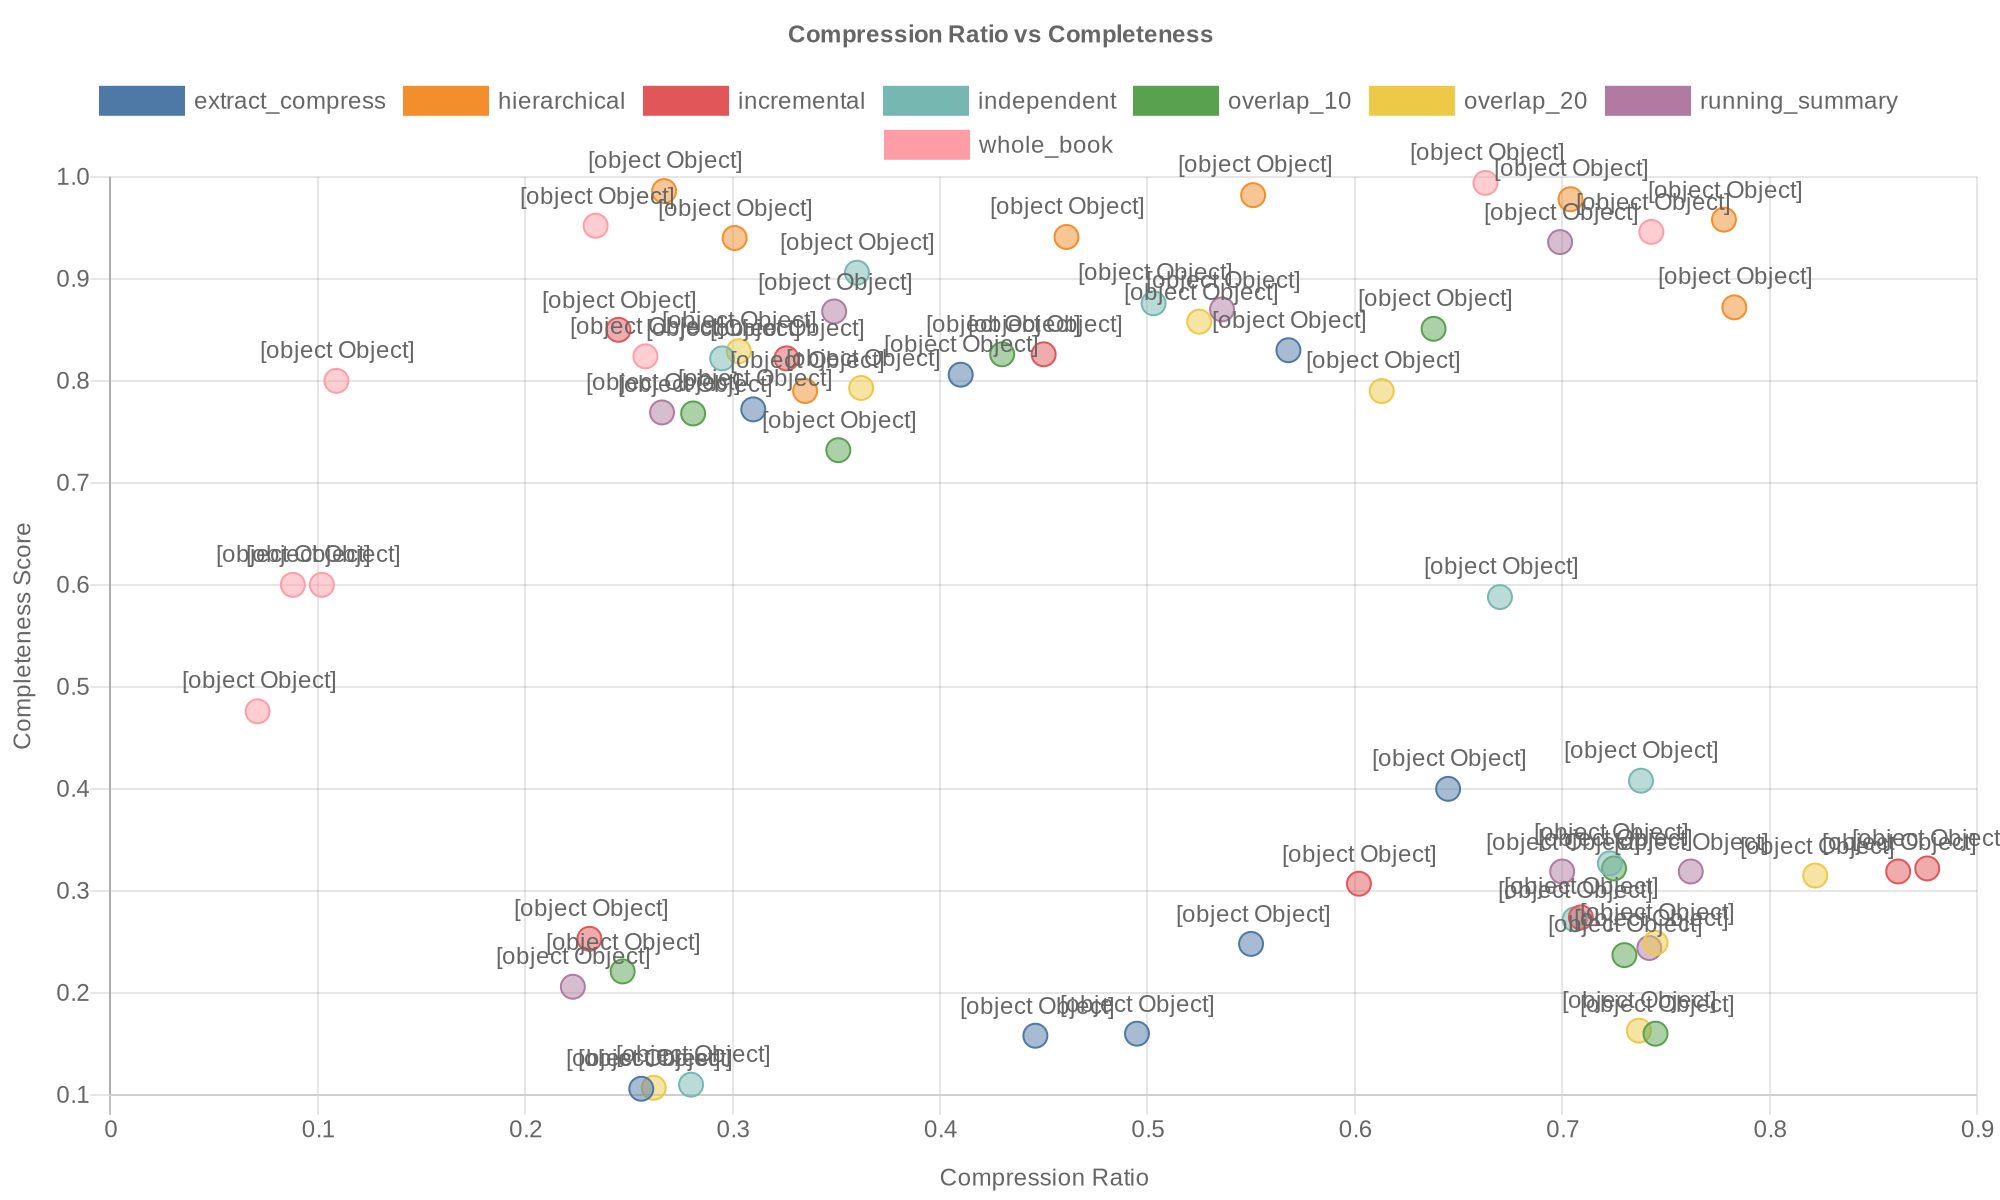
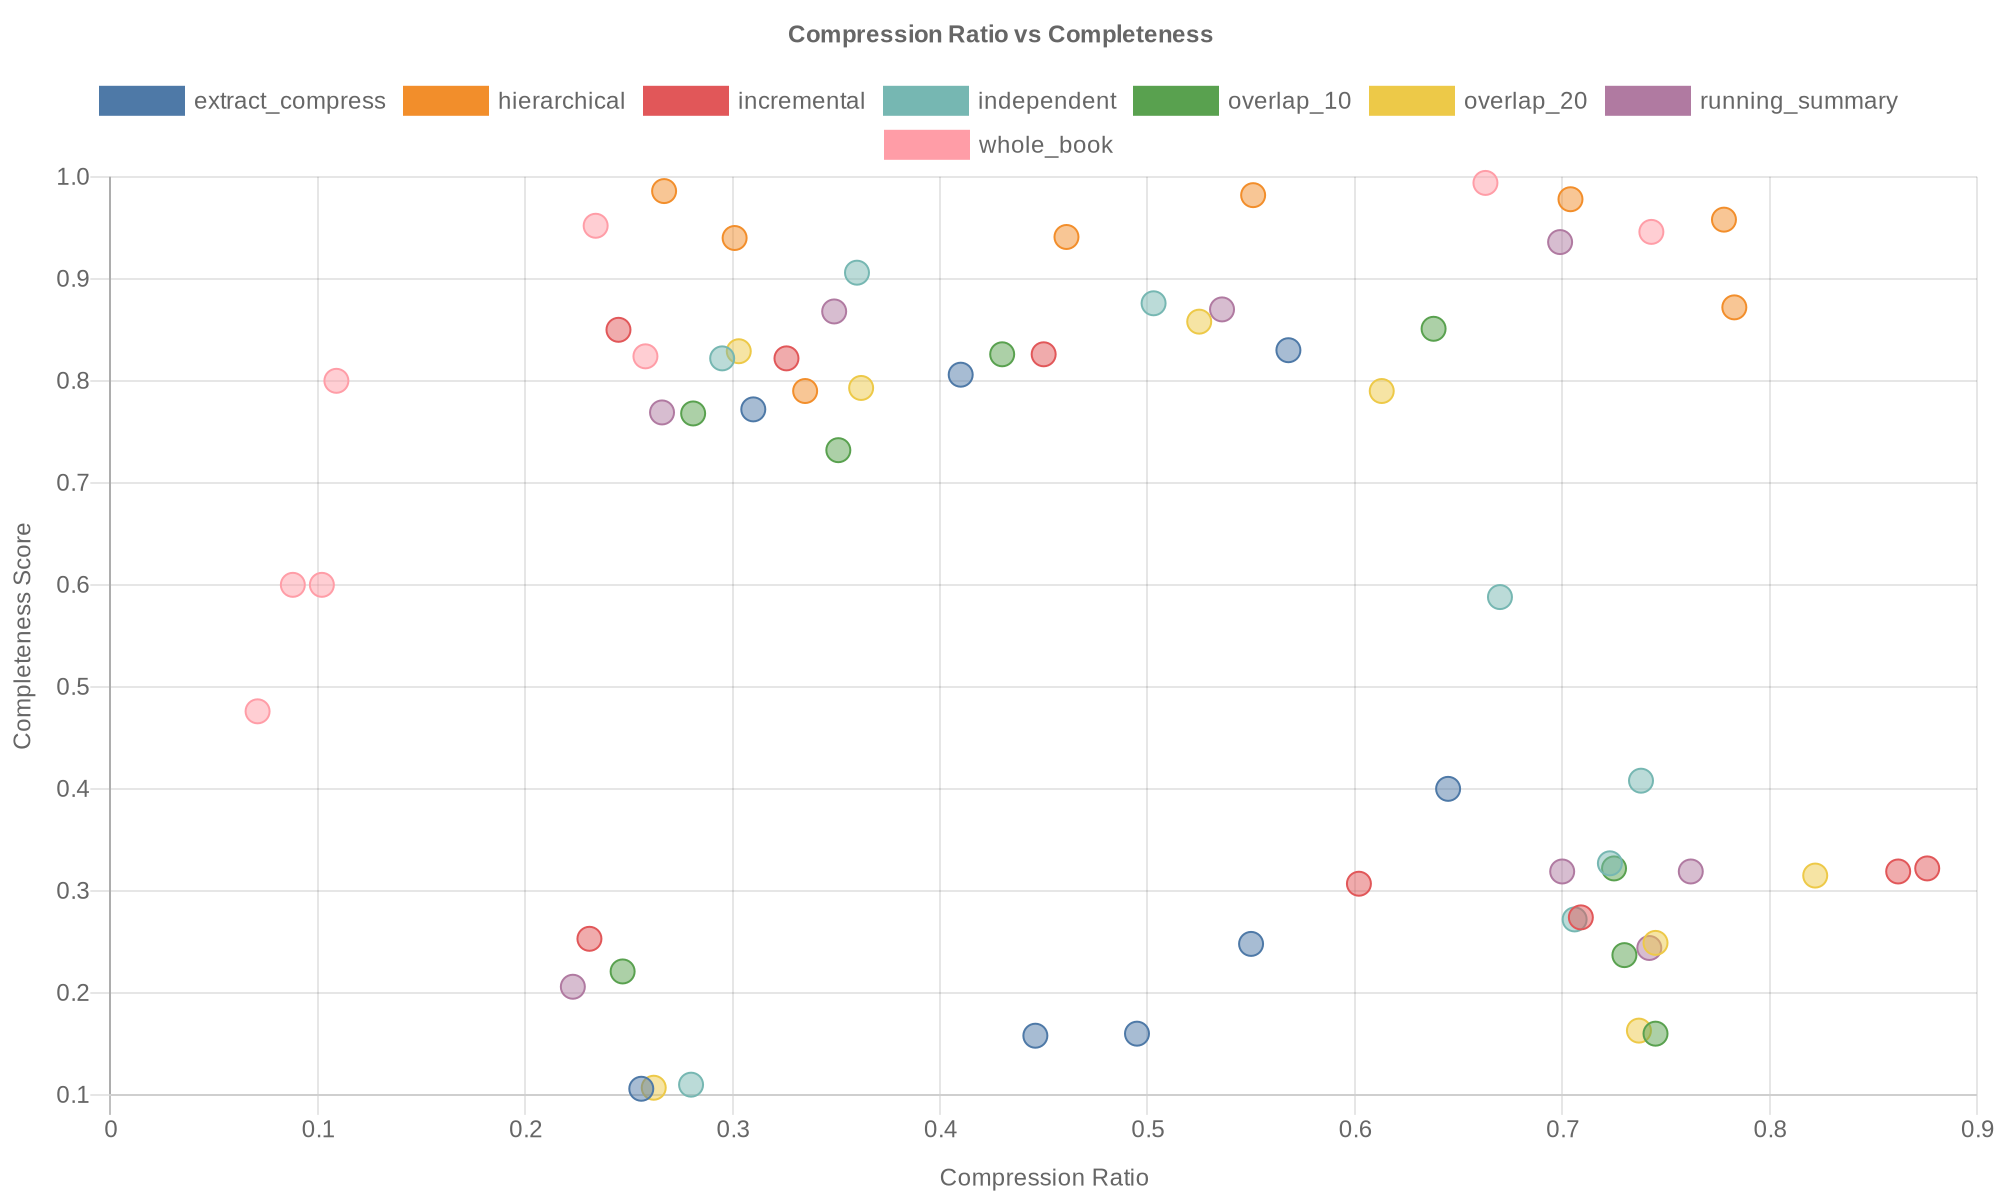
Regenerate charts

diff --git a/research/charts.py b/research/charts.py
@@ -181,21 +181,9 @@ def generate_compression_scatter(data: list[dict], output_path: Path) -> None:
                 "xAxes": [{"scaleLabel": {"display": True, "labelString": "Compression Ratio"}}],
                 "yAxes": [{"scaleLabel": {"display": True, "labelString": "Completeness Score"}}],
             },
-            "plugins": {
-                "datalabels": {
-                    "display": True,
-                    "align": "top",
-                    "formatter": "(val, ctx) => ctx.dataset.data[ctx.dataIndex].label || ''",
-                },
-            },
+            "plugins": {"datalabels": {"display": False}},
         },
     }
-
-    # Inject labels into point data for datalabels plugin
-    for i, (algo, points) in enumerate(sorted(algo_groups.items())):
-        for j, p in enumerate(points):
-            config["data"]["datasets"][i]["data"][j]["label"] = p.get("label", "")
-
     _post_chart(config, output_path)
 
 
@@ -224,19 +212,7 @@ def generate_cost_quality_scatter(data: list[dict], output_path: Path) -> None:
                 "xAxes": [{"scaleLabel": {"display": True, "labelString": "Estimated Cost ($)"}}],
                 "yAxes": [{"scaleLabel": {"display": True, "labelString": "Composite Score"}}],
             },
-            "plugins": {
-                "datalabels": {
-                    "display": True,
-                    "align": "top",
-                    "formatter": "(val, ctx) => ctx.dataset.data[ctx.dataIndex].label || ''",
-                },
-            },
+            "plugins": {"datalabels": {"display": False}},
         },
     }
-
-    # Inject labels into point data for datalabels plugin
-    for i, (model, points) in enumerate(sorted(model_groups.items())):
-        for j, p in enumerate(points):
-            config["data"]["datasets"][i]["data"][j]["label"] = p.get("label", "")
-
     _post_chart(config, output_path)
